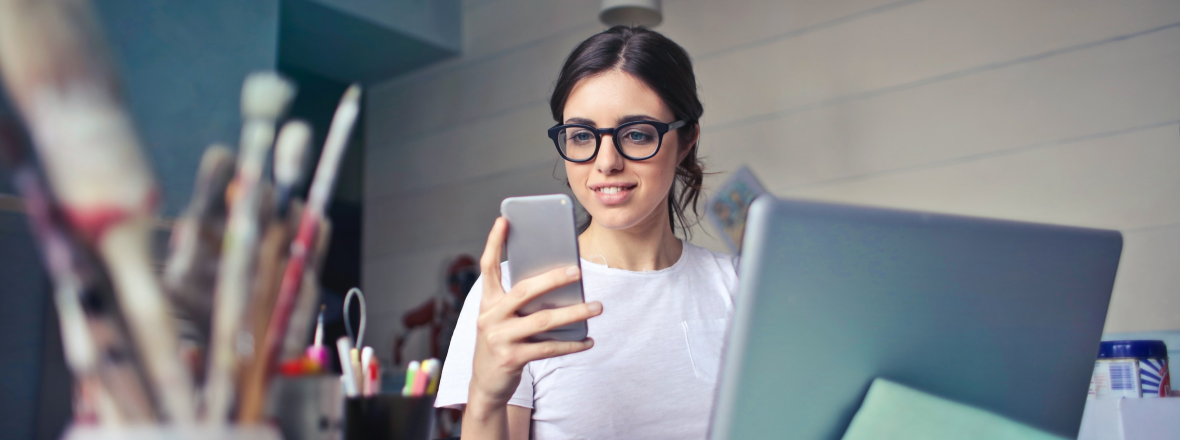
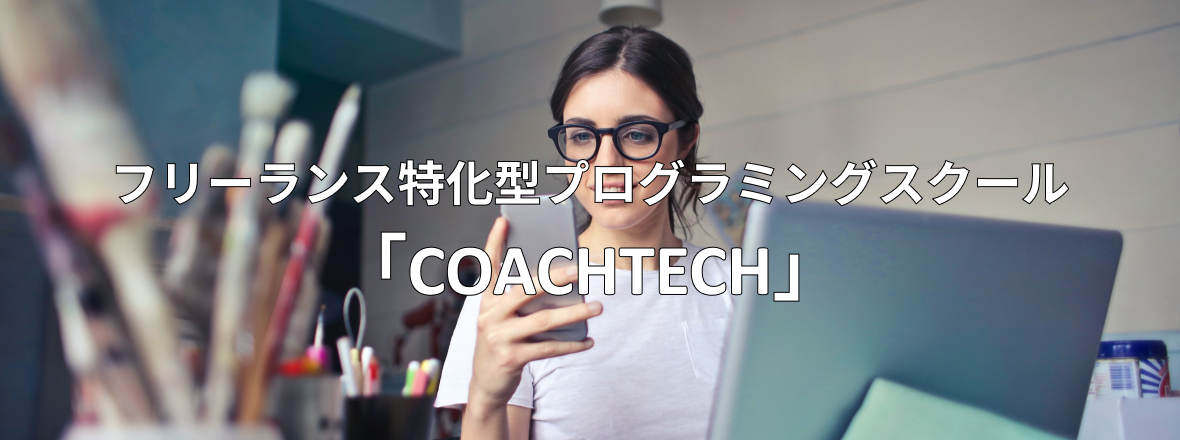
second

Changed region(s): [[0.0915, 0.3545, 0.9153, 0.4727], [0.3051, 0.5318, 0.7017, 0.7091]]

diff --git a/service.html b/service.html
@@ -6,9 +6,8 @@
   <meta http-equiv="X-UA-Compatible" content="IE=edge">
   <meta name="viewport" content="width=device-width, initial-scale=1.0">
   <link rel="stylesheet" href="css/reset.css">
-  <!-- <link rel="stylesheet" href="styles.css"> -->
   <link rel="stylesheet" href="css/common.css">
-  <link rel="stylesheet" href="css/top.css">
+  <link rel="stylesheet" href="css/service.css">
   <link rel="preconnect" href="https://fonts.googleapis.com">
   <link rel="preconnect" href="https://fonts.gstatic.com" crossorigin>
   <link href="https://fonts.googleapis.com/css2?family=Zen+Kurenaido&display=swap" rel="stylesheet">
@@ -26,52 +25,85 @@
       <li><a href="contact.html">Contact<br><span>お問い合わせ</span></a></li>
     </ul>
   </header>
+
   <section>
     <div class="title">
       <h1>サービス</h1>
       <p>Service</p>
     </div>
-    <div>
-      <div>
-        <img src="service.png" alt="coachtechイメージ">
+    <div class="service_contents">
+      <div class="coachtech_content">
+        <div>
+          <img src="service.png" alt="coachtechイメージ">
+        </div>
+        <p>
+          オンラインプログラミングスクールの中でも挫折率が3%と圧倒的に低い実績を残しています。<br>
+          生徒様に応じた学習カリキュラムは基礎学習と応用学習を用意しており、フリーランスへの道を歩むことができます。
+        </p>
+      </div>
+      <div class="content">
+        <h2>COACHTECH3つの特徴</h2>
+        <p>1.スキルレベルを最短で高めるオーダーメイドカリキュラム<br>
+          2.現役エンジニアの専属コーチが学習サポート<br>
+          3.エラーや疑問点をすぐに解決できる質問チャットサポート</p>
+      </div>
+      <div class="content">
+        <h2>数字で見る「COACHTECH」</h2>
+        <p>
+          ・累計生徒様数200名突破<br>
+          ・挫折率3%<br>
+          ・話題のプログラミングスクール1位
+        </p>
+      </div>
+      <div class="stagee_content">
+        <div>
+          <img src="stagee.png" alt="教育機関向け業務効率化ツールstagee">
+        </div>
+        <h3>Stageee</h3>
+        <p>
+          日本の教育課題は民間企業だからこそ解決できるものがあると信じています。<br>
+          Stageeeはestra創業前からずっと同じサービス名で開発を進め、何度もピボットを繰り返しています。<br>
+          弊社はCOACHTECHで理想の教育モデルを構築し、「Stageee」でそのモデルの普及をすることで日本の教育業界を変革します。<br>
+        </p>
+        <p>Comming soon...</p>
       </div>
     </div>
-  
+
 
   </section>
-<footer>
-  <div class="footer_menu">
+  <footer>
+    <div class="footer_menu">
+      <div>
+        <a href="top.html"><img src="logo2.png" alt="estraの企業ロゴ" class="logo"></a>
+      </div>
+      <div class="footer_list">
+        <ul>
+          <li><a href="about.html">私たちについて</a></li>
+          <li><a href="representative.html">代表挨拶</a></li>
+          <li><a href="Management_Philosophy.html">経営理念</a></li>
+          <li><a href="company.html">会社概要</a></li>
+          <li><a href="member.html">メンバー</a></li>
+        </ul>
+        <ul>
+          <li><a href="news.html">ニュース一覧</a></li>
+        </ul>
+        <ul>
+          <li><a href="service.html">サービス一覧</a></li>
+        </ul>
+        <ul>
+          <li><a href="recruit.html">採用情報</a></li>
+          <li><a href="environment.html">働く環境</a></li>
+          <li><a href="interview.html">インタビュー一覧</a></li>
+        </ul>
+        <ul>
+          <li><a href="contact.html">お問い合わせ</a></li>
+        </ul>
+      </div>
+    </div>
     <div>
-      <a href="top.html"><img src="logo2.png" alt="estraの企業ロゴ" class="logo"></a>
+      <a class="footer_privacy" href="privacy.html">プライバシーポリシー</a>
     </div>
-    <div class="footer_list">
-      <ul>
-        <li><a href="about.html">私たちについて</a></li>
-        <li><a href="representative.html">代表挨拶</a></li>
-        <li><a href="Management_Philosophy.html">経営理念</a></li>
-        <li><a href="company.html">会社概要</a></li>
-        <li><a href="member.html">メンバー</a></li>
-      </ul>
-      <ul>
-        <li><a href="news.html">ニュース一覧</a></li>
-      </ul>
-      <ul>
-        <li><a href="service.html">サービス一覧</a></li>
-      </ul>
-      <ul>
-        <li><a href="recruit.html">採用情報</a></li>
-        <li><a href="environment.html">働く環境</a></li>
-        <li><a href="interview.html">インタビュー一覧</a></li>
-      </ul>
-      <ul>
-        <li><a href="contact.html">お問い合わせ</a></li>
-      </ul>
-    </div>
-  </div>
-  <div>
-    <a class="footer_privacy" href="privacy.html">プライバシーポリシー</a>
-  </div>
-</footer>
+  </footer>
 
 </body>
 

diff --git a/top.html b/top.html
@@ -28,9 +28,50 @@
   </header>
   <section>
     <div class="top">
-      <img src="" alt="">
-      <h1>Commit to the growth for everyone
-      全ての人の成長にコミットする</h1>
+      <img src="top_coachtech.png" alt="top画像" style="width: 100%;">
+    </div>
+
+    <div class="tech_coach">
+      <img src="tech_coach 26.png" alt="テクノロジーとコーチング">
+      <p>
+        株式会社estraはデジタル化が遅れている教育業界に最新のテクノロジーを導入することによって教育のDXを実現します。<br>
+        独自のオペレーションとコーチングを融合した新しい教育の仕組みにより、一人ひとりに合わせた最適な教育を提供します。
+      </p>
+    </div>
+
+    <div class="news">
+      <div>
+        <h2>News</h2>
+        <div>
+          <img src="news1.png" alt="ニュース記事">
+        </div>
+      </div>
+    </div>
+    <div class="service">
+      <div>
+        <h2>Service</h2>
+        <div>
+          <div class="service_cotent">
+            <img src="coachtech_img.png" alt="フリーランス特化型プログラミングスクールcoachtech">
+            <p>COACHTECH(コーチテック)はフリーランス特化型のオンラインコーチングプログラミングスクールです。<br>
+              プログラミング未経験の方でも、「独自の学習ノウハウ」でフリーランスエンジニアを目指すことができます。</p>
+          </div>
+          <div class="service_cotent">
+            <img src="stagee_img.png" alt="教育機関向け業務効率支援ツールstagee">
+            <p>Stageee(ステージー)はコーチングに特化した業務効率化支援ツールです。<br>
+              Web会議、面談予約、チャット、学習計画作成、学習状況の把握、教材管理、指導報告書作成といったコーチングにおいて必要な機能が1つにまとまった業務効率化を支えるSaaS</p>
+          </div>
+        </div>
+      </div>
+    </div>
+    <div>
+      <div>
+        <h2>Recruit</h2>
+        <div>
+          <img src="recruit_img.png" alt="リクルート">
+          <p>全員がリスクを恐れずにチャレンジし、社員一人一人が活躍できる環境をみんなで作り上げる</p>
+        </div>
+      </div>
     </div>
 
   </section>
@@ -67,7 +108,7 @@
       <a class="footer_privacy" href="privacy.html">プライバシーポリシー</a>
     </div>
   </footer>
-  
-  </body>
-  
-  </html>
+
+</body>
+
+</html>

diff --git a/about.html b/about.html
@@ -35,20 +35,26 @@
     </div>
     <div>
       <h2>私たちが大切にしている3つの事</h2>
-      <div class="about_content1">
+      <div class="about_content">
         <img src="about1.png" alt="失敗を恐れないイメージ">
-        <h3>1.失敗を恐れない</h3>
-        <p>私たちが大切にしている「成長」のためには失敗は必要です。</p>
+        <div>
+          <h3>1.失敗を恐れない</h3>
+          <p>私たちが大切にしている「成長」のためには失敗は必要です。</p>
+        </div>
       </div>
-      <div class="about_content2">
+      <div class="about_content">
         <img src="about2.png" alt="失敗を恐れないイメージ">
-        <h3>2.オープンなコミュニケーション</h3>
-        <p>組織の成長のためなら、時には厳しいことも発言することが重要です。若いメンバーで構成されていることもあり、気軽に誰とでも話せる環境です。</p>
+        <div>
+          <h3>2.オープンなコミュニケーション</h3>
+          <p>組織の成長のためなら、時には厳しいことも発言することが重要です。若いメンバーで構成されていることもあり、気軽に誰とでも話せる環境です。</p>
+        </div>
       </div>
-      <div class="about_content1">
+      <div class="about_content">
         <img src="about3.png" alt="失敗を恐れないイメージ">
-        <h3>3.メンバーの多様性</h3>
-        <p>男女問わず、学生〜社会人まで様々なバックグラウンドを持ったメンバーが働いています。</p>
+        <div>
+          <h3>3.メンバーの多様性</h3>
+          <p>男女問わず、学生〜社会人まで様々なバックグラウンドを持ったメンバーが働いています。</p>
+        </div>
       </div>
     </div>
 

diff --git a/css/service.css b/css/service.css
@@ -1,0 +1,42 @@
+.service_contents{
+  width: 75%;
+  margin: 0 auto;
+  padding: 100px;
+}
+
+section img{
+  width: 100%;
+}
+
+h2{
+  font-size: 48px;
+  color: #fff;
+  background-color: #18CDCA;
+  padding: 80px;
+  display: inline-block;
+  text-align: center;
+  margin: 25px 0;
+}
+
+p{
+  font-size: 28px;
+  padding: 0 50px;
+}
+
+.content{
+  margin: 20px 0;
+}
+
+h3{
+  font-size: 38px;
+  margin-left: 50px;
+  margin-bottom: 20px;
+}
+
+.stagee_content{
+  margin-top: 100px;
+}
+
+.stagee_content>div{
+  margin-bottom: 30px;
+}

diff --git a/css/top.css b/css/top.css
@@ -1,0 +1,32 @@
+h2{
+  font-size: 38px;
+}
+
+.tech_coach{
+  display: flex;
+  padding: 100px;
+  text-align: center;
+  background-color: #fff;
+  align-items: center;
+}
+
+.tech_coach>p{
+  text-align: left;
+  font-size: 28px;
+  line-height: 1.5em;
+  padding: 0 20px;
+}
+
+.service>div>div{
+  display: flex;
+}
+
+.service>div>div{
+  width: 50%;
+}
+
+.news{
+  display: flex;
+  justify-content: center;
+  align-items: center;
+}

diff --git a/css/about.css b/css/about.css
@@ -9,3 +9,33 @@
   text-align: center;
   margin-top: 20px;
 }
+
+h2{
+  font-size: 60px;
+  text-align: center;
+  margin: 100px;
+}
+
+.about_content{
+  width: 80%;
+  display: flex;
+  margin: 0 auto;
+  padding-bottom: 100px;
+}
+
+h3{
+  font-size: 40px;
+}
+
+p{
+   font-size: 25px;
+   margin-top: 20px;
+}
+
+.about_content>div{
+  padding: 50px;
+}
+
+.about_content:nth-child(odd){
+  flex-direction: row-reverse;
+}
